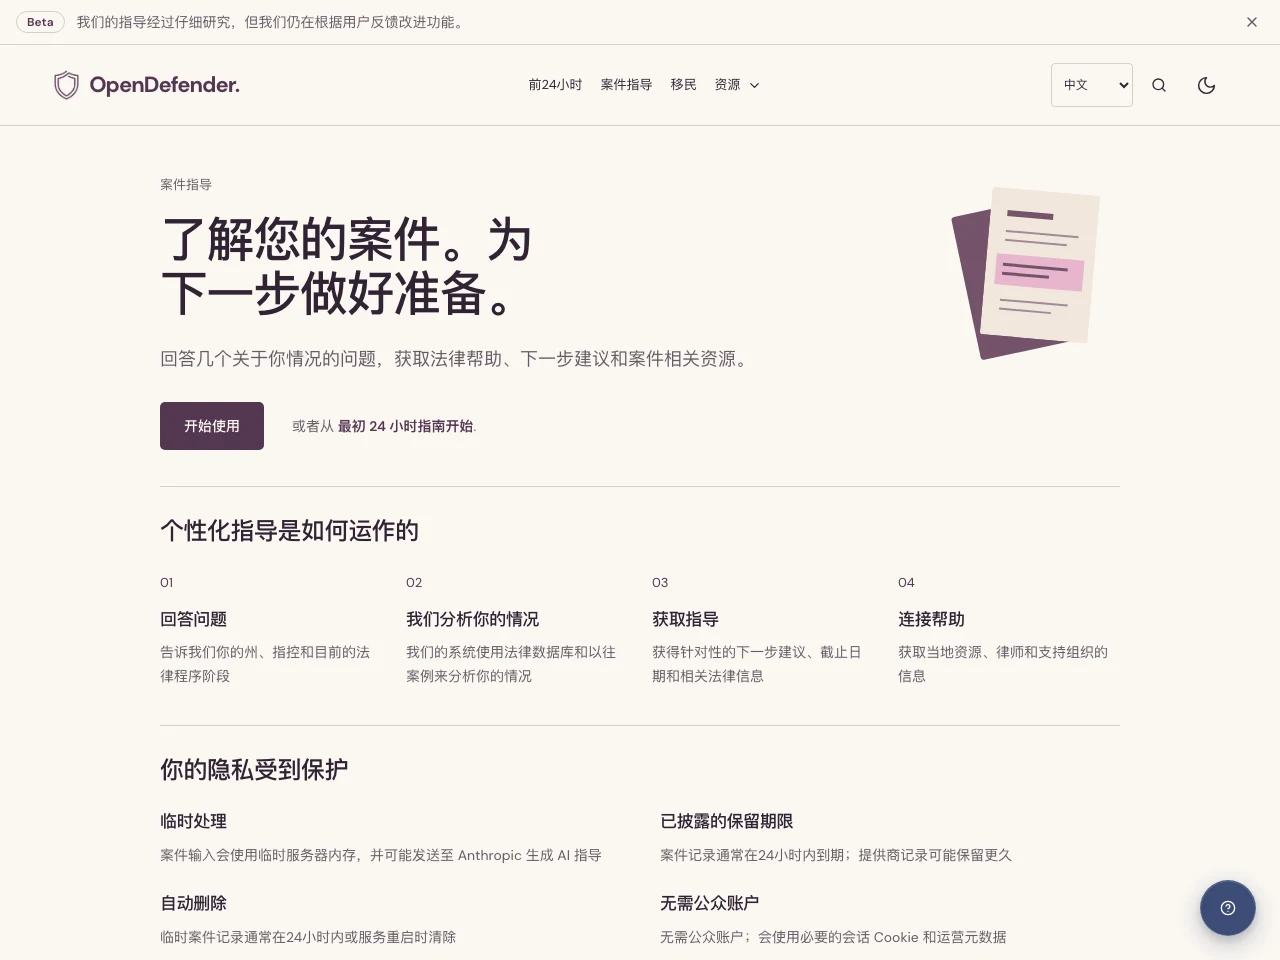
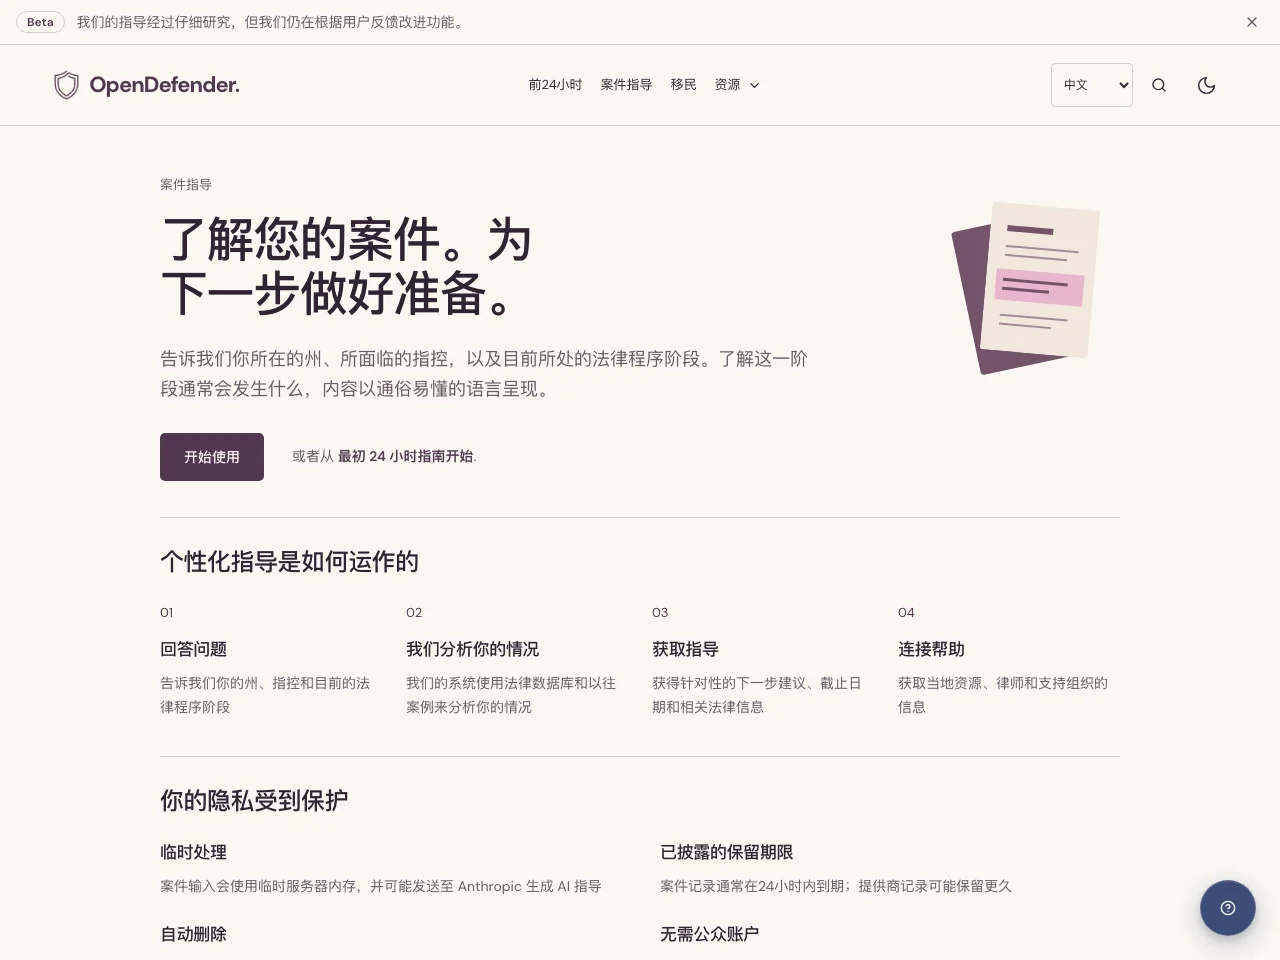
Align Chinese Case Guidance introduction and refresh its screenshot

diff --git a/client/src/locales/zh.ts b/client/src/locales/zh.ts
@@ -3004,7 +3004,7 @@ export default {
     "hero": {
       "title": "案件指导",
       "subtitle": "获取个性化指导",
-      "description": "回答几个关于你情况的问题，获取法律帮助、下一步建议和案件相关资源。",
+      "description": "告诉我们你所在的州、所面临的指控，以及目前所处的法律程序阶段。了解这一阶段通常会发生什么，内容以通俗易懂的语言呈现。",
       "startButton": "开始使用",
       "startHere": "从这里开始",
       "alternativeStartPrefix": "或者从",

diff --git a/docs/design/approved-design-baseline.md b/docs/design/approved-design-baseline.md
@@ -725,3 +725,5 @@ The five path illustrations now use actual captures of First 24 Hours, Case Guid
 ### Diversion search recovery
 
 The directory retains the published program-scope disclaimer alongside the variability notice. ZIP lookups that cannot identify a state show a localized recovery message instead of an empty-results claim. Readers can retry or clear the ZIP and select a state. Successful statewide expansion and text filtering retain their existing behavior. Browser checks cover recovery in all three interface languages and narrow screens.
+
+The Chinese Case Guidance introduction now matches the English description of a plain-language overview of the current stage. Its How To capture is refreshed with that copy. When a later PR changes the visible introduction, navigation or layout of any of the five captured pages, refresh the affected localized How To screenshots in the same PR. Keep captures free of user data and use 1280 × 960 light-mode WebP images.
